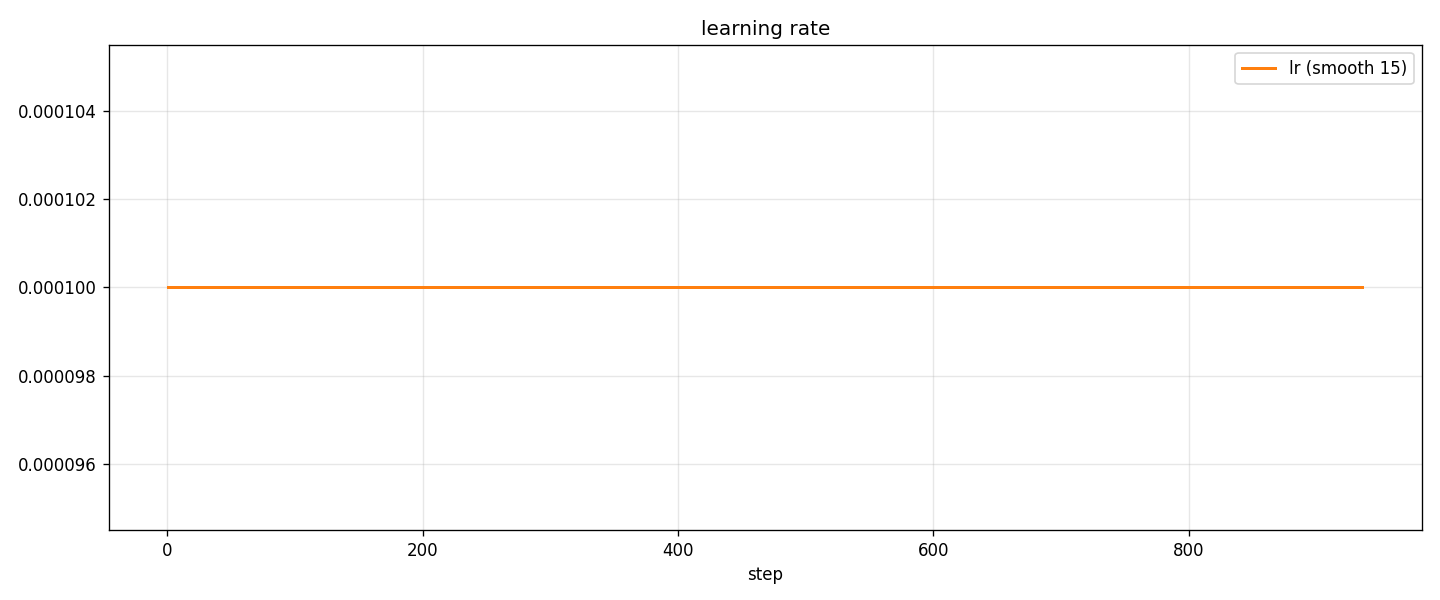
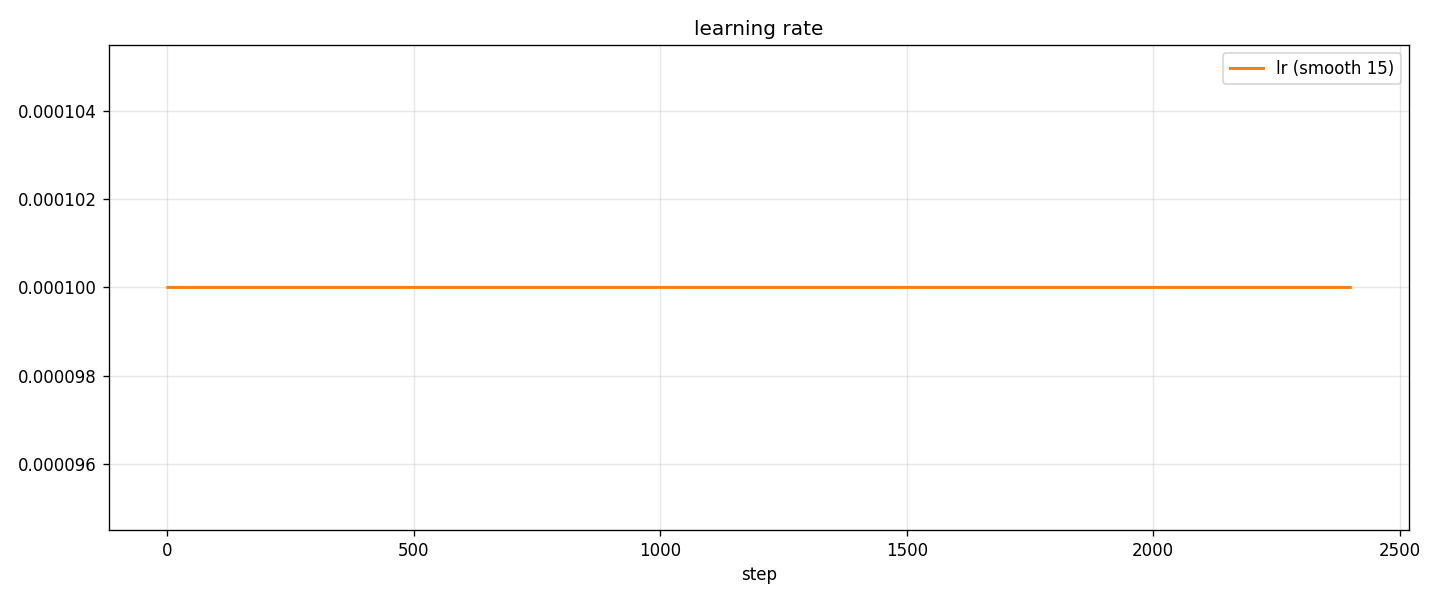
Record arabic_joint_v2 stop at step 2400 and refresh plots

diff --git a/TRAINING_ANALYSIS/arabic_joint_v2/analysis.md b/TRAINING_ANALYSIS/arabic_joint_v2/analysis.md
@@ -3,7 +3,8 @@
 Run: scored joint AR/NAR recipe, 267-track Arabic dataset, L4.
 Config: rank 32, `sequence_tokens` 24576, 3000 steps, `nar_start=base`,
 `abc_dropout` 0.5, `score_planning=full`.
-Snapshot at step ~936/3000 (2026-09-18 13:00 UTC).
+Snapshot: **stopped by the user at step 2400/3000**, 2026-09-18 20:02 UTC
+(resumable from `resume.pt`; 600 steps / ~2.7 h remain if wanted).
 
 Graphs in this folder were produced with:
 
@@ -18,13 +19,13 @@ python plot_training.py --run-name arabic_joint_v2 \
 ## What the curves say
 
 - **Total loss:** one fast drop (~1.25 → ~1.0) over the first ~50 steps, then
-  **dead flat at ~1.0** from step 50 to 936. No further learning after warmup.
+  **flat at ~1.0 all the way to step 2400.** No further learning after warmup.
 - **Loss terms (the important one):**
   - `ar_ce` ~**0.02, flat from step 1** — the AR branch is saturated; the base
     model already predicts the codec tokens from style+lyrics.
-  - `ar_kl` ~0.05–0.2, noisy, no trend.
+  - `ar_kl` ~0.05–0.22, noisy, no trend.
   - `nar_flow` is **~90% of the loss and oscillates 0.8–1.1 with no downward
-    trend** across 900 steps. This is the only term that can actually learn, and
+    trend** across 2400 steps. This is the only term that can actually learn, and
     it is not.
 - **Gradient norm:** noisy, mostly <0.2 with occasional spikes to ~1.0 early;
   no systematic drift. Optimisation is stable, not diverging — the signal is
@@ -32,27 +33,49 @@ python plot_training.py --run-name arabic_joint_v2 \
 - **Learning rate:** constant `1e-4` (the joint config exposes no decay
   schedule), so the plateau is not a schedule artifact.
 - **Peak VRAM:** ~13.7–15.0 GB / 23 GB, comfortable on the L4.
-- **Validation at 200/400/600/800:**
-  - `ar_validation` ~0.024 → 0.028 → 0.024, **flat**;
-  - `nar_validation` 0.963 → 0.960 → 0.956, a **~0.7% drift over 600 steps**;
-  - `artist_validation` ~1.011, **flat**; `kl_validation` ~0.15, flat.
+
+### Validation at checkpoints
+
+| step | ar_val | nar_val | kl_val | artist_val |
+| --- | --- | --- | --- | --- |
+| 200 | 0.0233 | 0.9629 | 0.1603 | 1.0183 |
+| 400 | 0.0278 | 0.9595 | 0.1388 | 1.0151 |
+| 600 | 0.0250 | 0.9578 | 0.1494 | 1.0127 |
+| 800 | 0.0240 | 0.9562 | 0.1538 | 1.0110 |
+| 1000 | 0.0241 | 0.9543 | 0.1537 | 1.0091 |
+| 1200 | 0.0258 | 0.9527 | 0.1468 | 1.0078 |
+| 1400 | 0.0242 | 0.9524 | 0.1522 | 1.0070 |
+| 1600 | 0.0248 | 0.9519 | 0.1495 | 1.0066 |
+| 1800 | 0.0241 | 0.9508 | 0.1526 | 1.0054 |
+| 2000 | 0.0391 | 0.9511 | 0.0993 | 1.0101 |
+| 2200 | 0.0228 | 0.9502 | 0.1655 | 1.0061 |
+| 2400 | 0.0303 | 0.9494 | 0.1283 | 1.0054 |
+
+`ar_validation` is flat/noisy (~0.025). `nar_validation` falls **monotonically
+but very slowly**: 0.9629 → 0.9494 over 2200 steps (−0.0135, ~0.0012 per 200
+steps). `artist_validation` (AR + NAR) drifts 1.0183 → 1.0054.
 
 ## Reading
 
-The scored joint recipe is behaving exactly like `arabic_joint_v1` in direct
-mode: AR saturated from step 1, NAR flow dominating but not descending, and an
-essentially flat artist validation. Adding the SheetSage2 scores has not changed
-the optimisation — consistent with the pilot finding that the transcribed ABCs
-do not carry the maqam, so there is no score signal for the recipe's
-score-conditioned half to use. At the current rate ([~16 s/step, ETA ~9 h]) the
-remaining ~2000 steps cost ~9 GPU-hours for what the 200→800 validation trend
-suggests will be another fraction of a percent of `nar_validation`.
+The scored joint recipe behaves like `arabic_joint_v1` in direct mode: AR
+saturated from step 1, NAR flow dominating yet not descending, and artist
+validation essentially flat apart from a tiny, slow `nar_validation` drift.
+Adding the SheetSage2 scores did not change the optimisation — consistent with
+the pilot finding that the transcribed ABCs do not carry the maqam, so the
+recipe's score-conditioned half had no usable signal. Stopping at 2400 loses
+almost nothing relative to the full 3000; the remaining 600 steps (~2.7 h) buy
+at most another ~0.004 of `nar_validation` by the observed slope.
 
 This is the outcome the pilot gate predicted; it is reported, not re-litigated
 (the user chose to run it). Legacy AR is the spec's documented fallback.
 
-## Run status at snapshot
+## Run state at stop
 
-- Step ~936/3000 (~31%), ~16 s/step, ETA ~9 h (~22:00 UTC).
-- Checkpoints 200/400/600/800 and previews `000000`–`000800` backed up to GCS;
-  step 1000 next. No errors; GPU ~15 GB, 100% util.
+- Step 2400/3000. In GCS under `<run>/{loras,runs}`: adapters **200–2400**
+  (`step-NNNNNN.safetensors` + `-nar`), `resume.pt` (800 MB), `run.json`,
+  previews, and the 267 prepared/acoustic caches.
+- Resume later: restore `<run>/runs/<run>/` → `ComfyUI/output/yue2_training/`,
+  start ComfyUI, then
+  `queue_train.py --recipe joint --preset full --run-name arabic_joint_v2
+  --score-planning full --transcribe-scores --cache-dir arabic_joint_v2
+  --resume resume.pt`.

diff --git a/PROGRESS.md b/PROGRESS.md
@@ -86,3 +86,18 @@ changes; keep it short. Not a log — *why* things are the way they are lives in
   `gsutil rsync` (partial downloads resume), and each YuE2 weight/asset job skips
   when its file already exists in `ComfyUI/models/yue2/`. Fresh VMs are unchanged
   (nothing present, full download).
+
+## 2026-09-18 — `arabic_joint_v2` stopped at step 2400 (resumable)
+
+- User stopped early (planned 2600, went to bed sooner). Reached **step 2400/3000**;
+  600 steps (~2.7 h) remain. No errors, ~57 min per 200-step checkpoint.
+- State fully in GCS under `arabic_joint_v2/{loras,runs}`: adapters **200–2400**
+  (+ `-nar`), `resume.pt`, `run.json`, previews, and the prepared/acoustic caches
+  (upload verified 20:01–20:02 UTC).
+- Regenerated the curves and updated
+  `TRAINING_ANALYSIS/arabic_joint_v2/analysis.md` to the 2400 snapshot:
+  `nar_validation` 0.9629 → 0.9494 over 2200 steps (slow, monotonic),
+  `ar_validation` flat, `artist_validation` 1.0183 → 1.0054 — still the plateau
+  the pilot gate predicted.
+- Next: resume from `resume.pt` (commands in `agent_notes/current.md`), or accept
+  the 2400 adapter and judge it with the `INFERENCE/` matrix.
